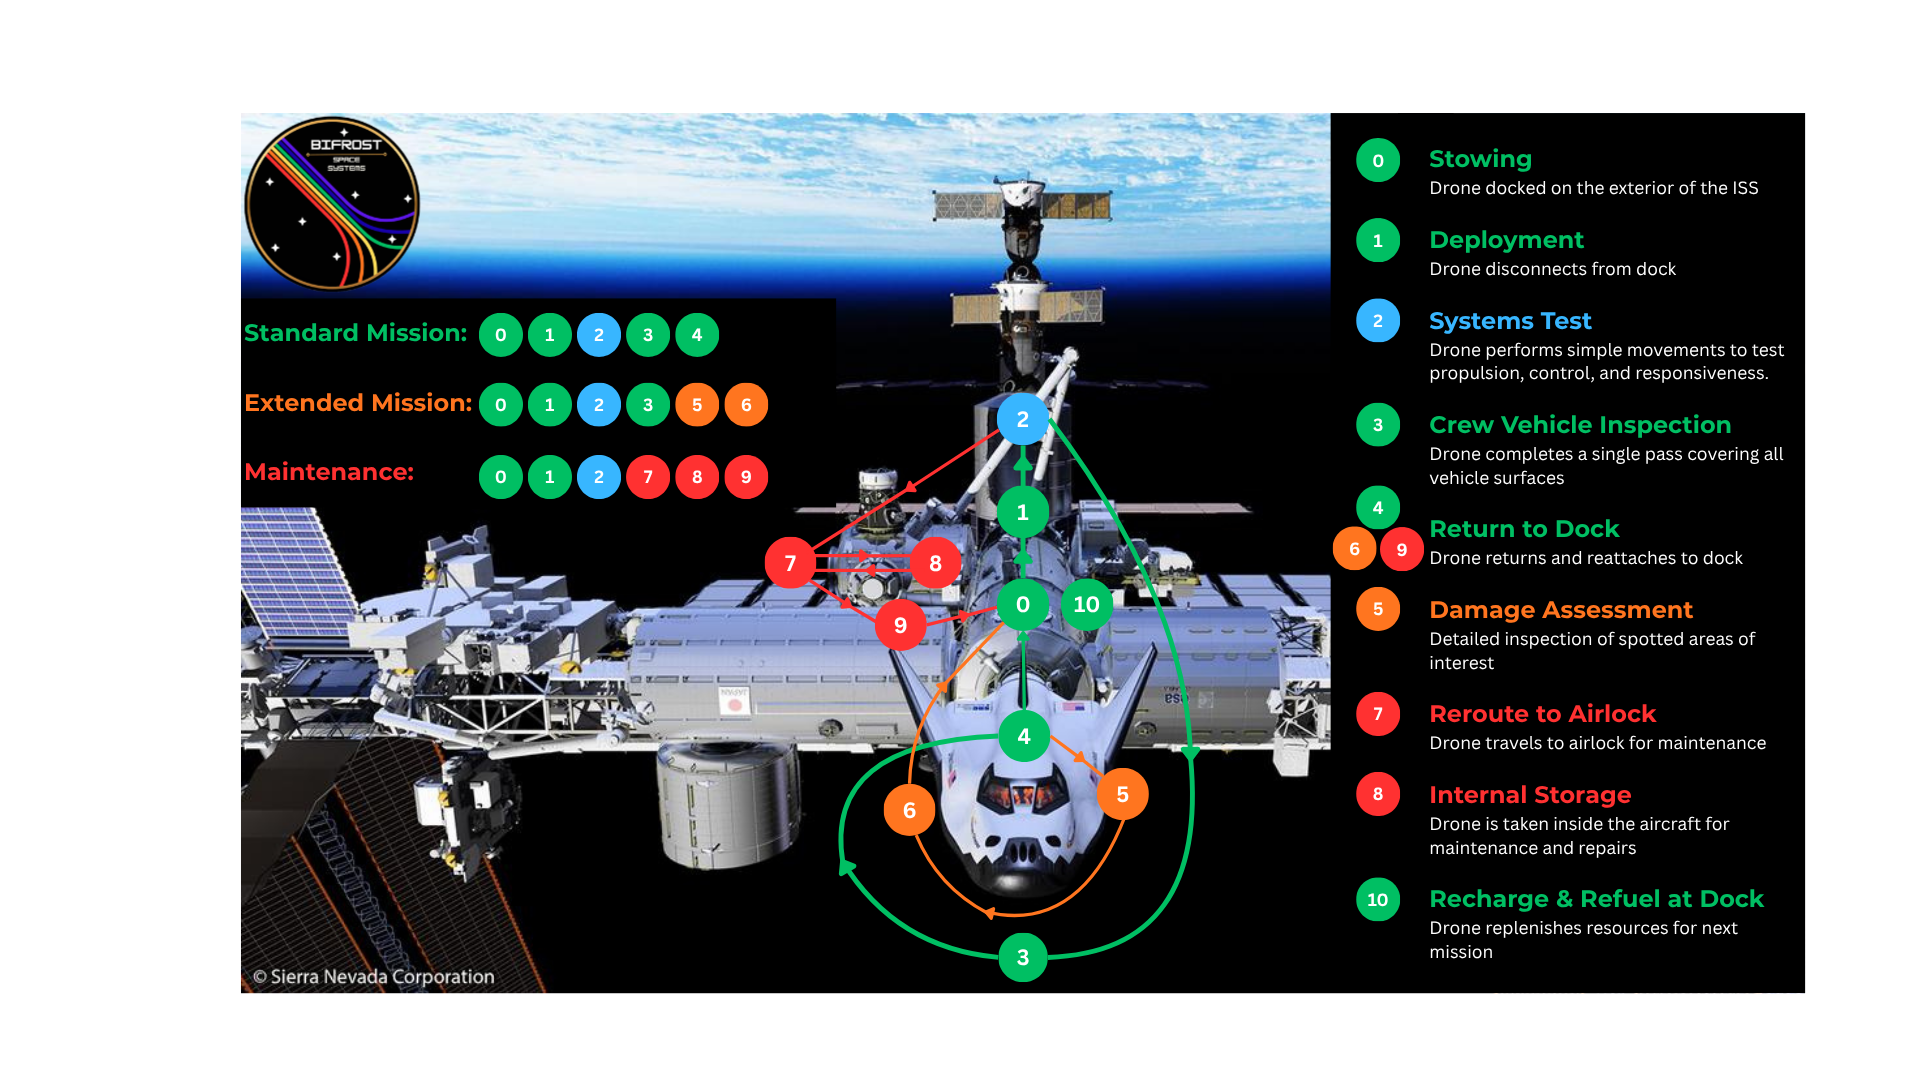
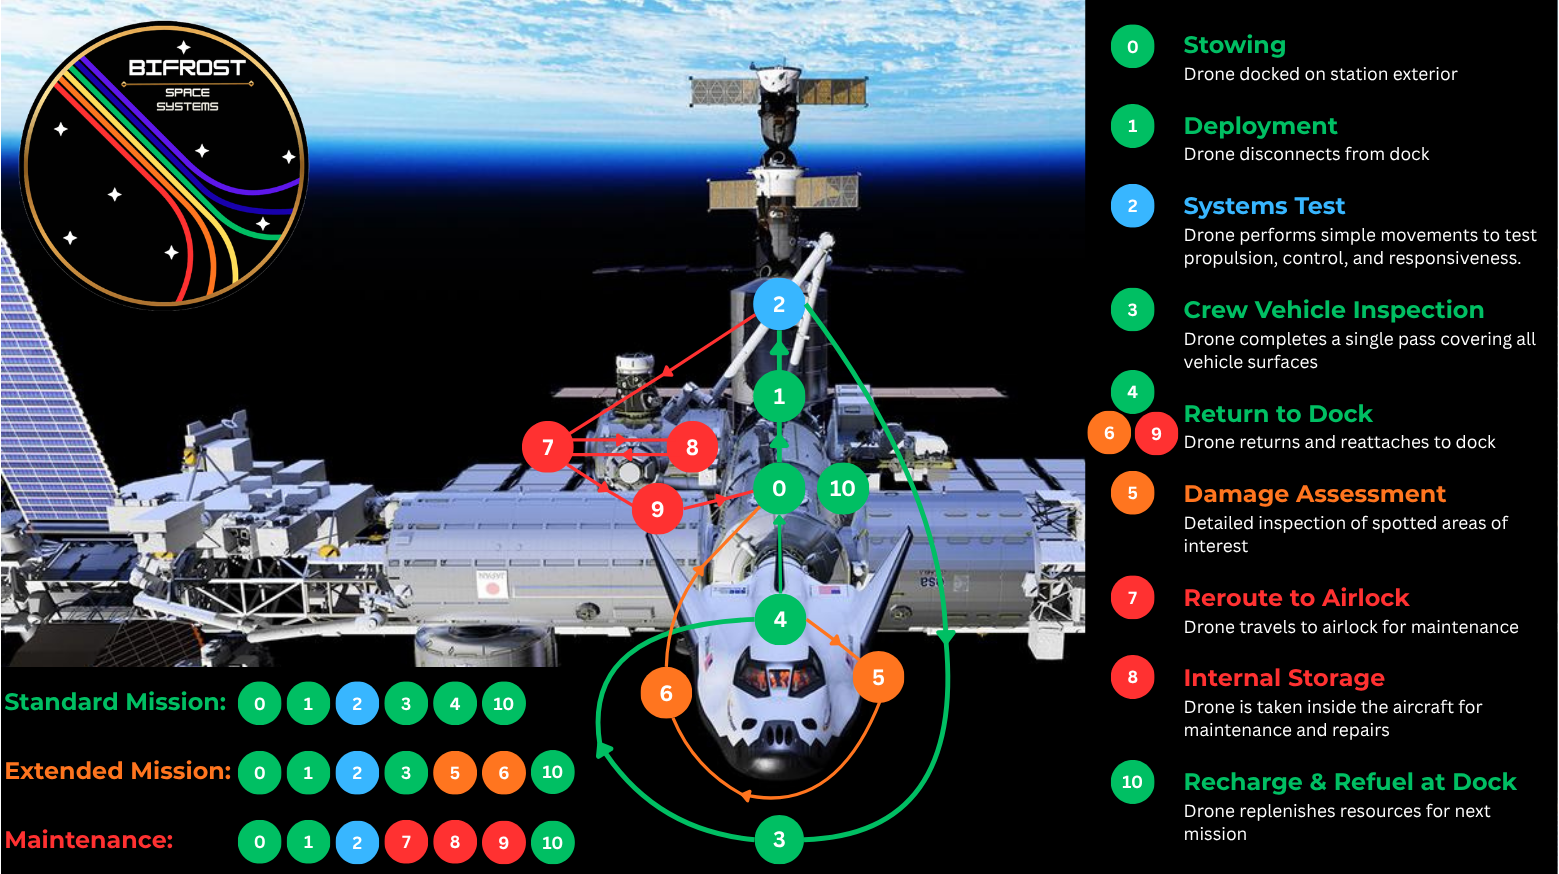
Updated changes for Report 1

diff --git a/src/ConOps.tex b/src/ConOps.tex
@@ -4,9 +4,11 @@
 \usepackage{graphicx}
 \usepackage{ragged2e}
 \usepackage{hyphenat}
+\usepackage{hyperref}
 \usepackage[margin=1.25in]{geometry}
 \usepackage{xcolor}
 
+\newcommand{\hangingcite}{\noindent\hangindent=0.5in\hangafter=1}
 
 \graphicspath{{./../imgs/}}
 
@@ -29,12 +31,12 @@
     \justifying
 
     {\noindent\huge \textbf{\nohyphens{ODIN Drone Concept of \\ Operations (ConOps)}} \\}
-    {\noindent\large \textbf{Version 1.0} \\}
+    %{\noindent\large \textbf{Version 1.0} \\}
 
     \vfill
 
     {\noindent\large \textbf{Prepared by:} \\}
-    {\noindent\large \textbf{Bifrost Space Systems}}
+    {\noindent\large \textbf{Bifröst Space Systems}}
 \end{titlepage}
 
 \tableofcontents
@@ -47,13 +49,14 @@
     \centering
     \caption{ODIN Drone Mission Phases}
     \label{fig:ConOps_Graphic}
-    \includegraphics[width=\textwidth, keepaspectratio]{ConOps_Graphic.png}
+    \includegraphics[width=\textwidth, keepaspectratio]{ConOps Graphic.png}
 \end{figure}
 
 \vspace{0.5cm}
-\noindent The ODIN drone will ensure the safety of all spacecraft returning to Earth from the ISS. 
-Integrating its systems with the ISS, the drone will conduct a scan of spacecraft. 
-It will use a camera to analyze the surface of approaching spacecraft, searching for any and all surface damages that may have been accrued during launch.
+\noindent The Observational Damage Inspector (ODIN) Drone will enhance the safety of all spacecraft launched from Earth and docked with space stations. Integrating its systems with the space station, ODIN will be piloted to conduct a non-destructive external scan of the docked spacecraft.
+
+\vspace{\baselineskip}
+\noindent The ODIN drone will undock from the space station, maneuver to the target spacecraft, and use a high-resolution camera to analyze the surface of the docked spacecraft, searching for any and all surface damage that may have been accrued during launch. Following this, the drone will return to the docking port and recharge. During the mission, astronauts aboard the space station and incoming spacecraft, NASA analysts, and business partners will all coordinate to ensure the safety of the spacecraft.  
 
 \newpage
 
@@ -98,19 +101,19 @@ After the inspection is complete, ODIN is powered off until next usage.
 \newpage
 \section{Sub-System Overview}
 \subsection{Structures}
-blah
+The Structures team will be responsible for designing, modeling, and analyzing the structural components of the ODIN and its docking bay. The team will develop CAD models, evaluate structural loads and thermal effects, and integrate mounting features for all other sub systems. The team will seek a design that minimizes size and weight while maintaining structural strength, thermal control, subsystem integration, and maintenance access. Coordination with the materials sub-team will ensure that the design provides adequate strength and durability for ODIN’s lifetime. The team will also coordinate with all other subsystems to plan and resolve layout and attachment needs while providing access for maintenance.  
 
-\subsection{Materials}
-blah
+\subsubsection{Materials}
+The Materials sub-team will be responsible for testing and selecting the most efficient materials for the various components aboard the ODIN. This process will include researching, testing, and implementing different materials and their best application. Factors such as weight, strength, durability, thermal/radiation resistance, and human factors are important for the success of the ODIN Mission. This sub-team will also serve as a backup to the structures team, assisting with designing and modeling ODIN and its docking bay. 
 
 \subsection{Propulsion}
-blah
+The propulsion system will provide the means for the drone to traverse the exterior of the space station.  The drone will use a propulsion system not yet decided to propel itself around the crew vehicle on a TBD route. All fuel or propellants needed for propulsion will be safely stored within the ODIN drone during missions. The propulsion system will work in conjunction with the control and communications systems to ensure the drone is responsive to human pilot input. While docked, the drone will be able to replenish any lost fuel or propellant to ready itself for its next mission. 
 
 \subsection{Controls}
-blah
+The control systems will be designed to execute various tasks, including monitoring imaging positions, maneuvering docking procedures, and promptly provide feedback in case of emergencies. For basic movement and maneuvers, the pilot will have command of the craft and provide input, while the control systems provide adequate feedback. In maneuvers such as docking, undocking, and inspection, the control systems will ensure the craft remains within the tolerances to successfully perform these operations. While in the imaging stages, controls will ensure the aircraft remains within the bounds to complete its imaging tasks. In emergency cases, such as when the craft is running low on resources or when communications are lost, the craft will initiate appropriate warnings to the pilot when necessary. 
 
 \subsection{Power}
-blah
+The power system onboard the ODIN drone will support all electronics within the drone, such as the camera, propellent control, and communications. The power system will be stored within the drone and will recharge when docked on the space station. Every full charge of the power supply will be enough to last one full mission, as well as longer in case of emergencies. This system will work in conjunction with all other systems, as it is dependent on structures, and supports propulsion, controls, and command.    
 
 \subsection{Communications/Command}
 The communication/command system will facilitate the astronauts' interactions with the ODIN drone. 
@@ -120,5 +123,12 @@ The communication/command system will have a radio control unit to allow the use
 
 \newpage
 \section{References}
+\vspace{0.5cm}
+\hangingcite ``Appendix S: Concept of Operations Annotated Outline.'' \textit{NASA}, edited by Garrett Shea, National Aeronautics and Space Administration, 26 July 2023, \url{www.nasa.gov/reference/appendix-s-concept-of-operations-annotated-outline/}.
 
+\vspace{0.5cm}
+\hangingcite Gonzalez-Torres, Tomas. ``Concept of Operations / Mission Concept.'' \textit{AerE 4610 Modern Design Methodology with Astronautics Applications}, Iowa State University, Fall 2026. \textit{Canvas}, \url{canvas.iastate.edu}.
+
+\vspace{0.5cm}
+\hangingcite Sierra Nevada Corporation. ``Dream Chaser Docked to ISS.'' \textit{Space.com}, 29 Oct. 2012, \url{www.space.com/14446-photos-dream-chaser-space-plane/6.html}.
 \end{document}
